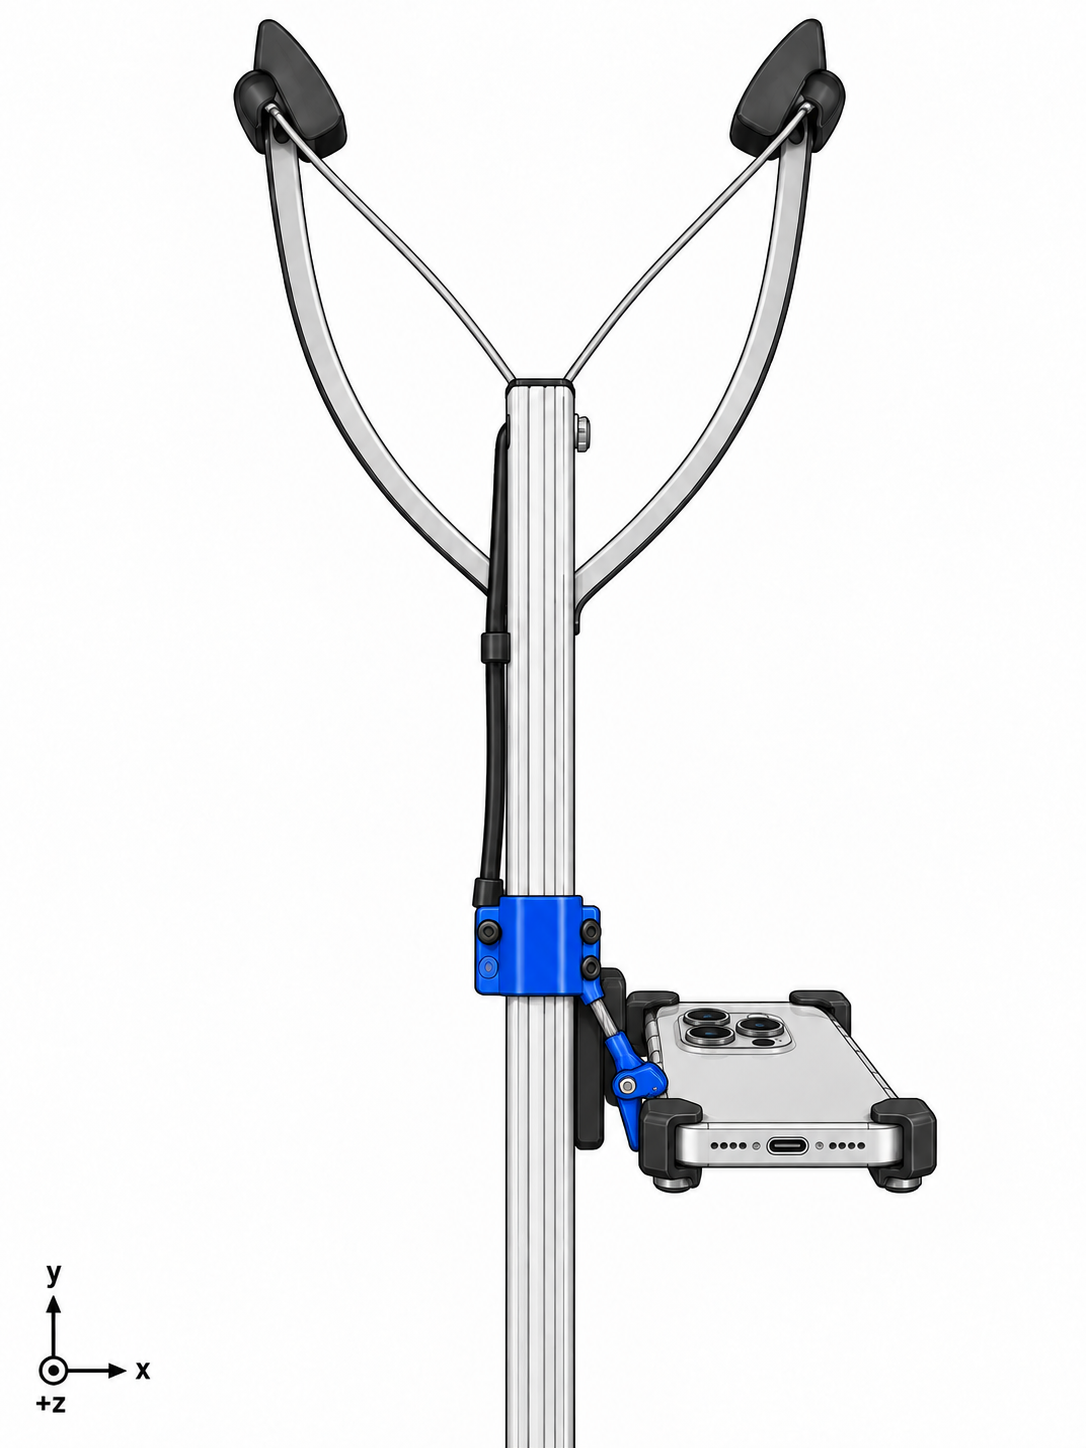
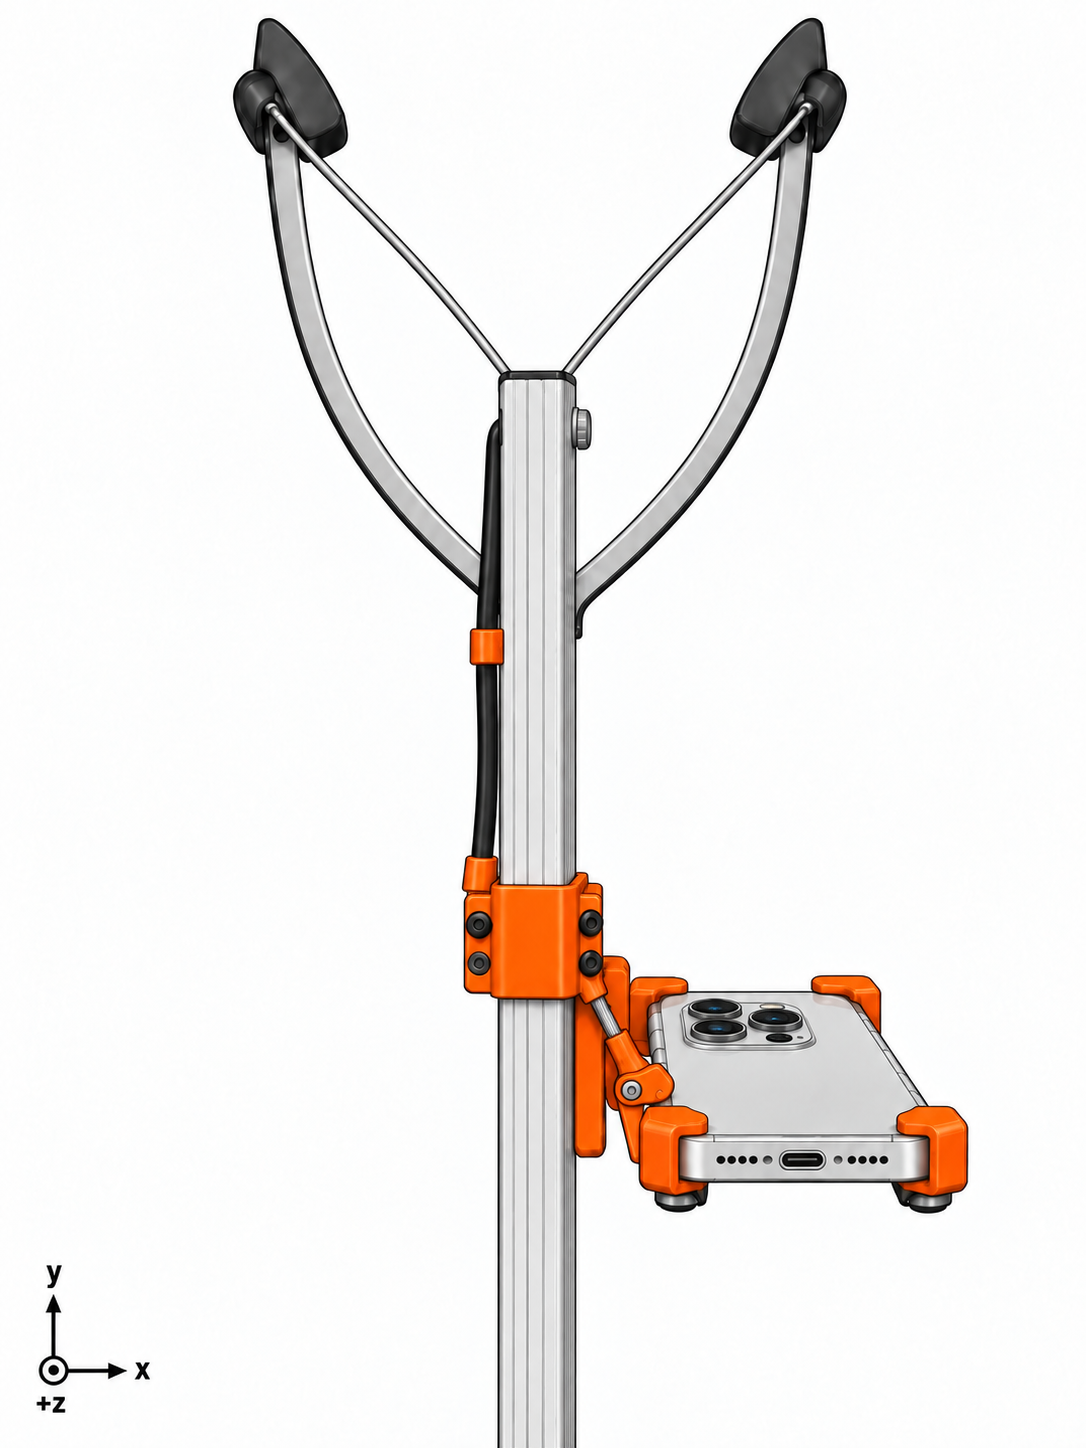
Color printed retrofit parts and square grabber neck

diff --git a/AGENTS.md b/AGENTS.md
@@ -32,6 +32,8 @@ Use the photo in `cad/reference/reacher-grabber.png` as the specific grabber geo
 
 For concept drawing pairs, positive y points up along the grabber shaft. In a views, positive x points right and positive z comes out of the page toward the viewer. In b views, the camera and axis key rotate 90 degrees about y: positive z points left and positive x comes out of the page. Keep each sheet to one view, with a small x/y/z axis glyph and a white background. These are concept illustrations, not proof of fit or working force transmission.
 
+Use the reference grabber's square-cross-section silver neck, drawn as a rectangular prism with flat faces and sharp edges. Printed clamps must fit that square profile. The only blue stock parts are the shaft's center brace and the handle; color every added 3D-printed retrofit component orange. Keep the original metal silver and the stock claw feet and squeeze trigger black.
+
 Each image in `cad/renders/` has an adjacent `.spec.json` file. Treat these sidecars as the record of user-provided positioning and component requirements when revising or replacing a drawing. Update the relevant sidecar whenever the user adds a constraint. In assembly and phone-mount a views, place the phone to the positive-x side and into negative z so its near thin long edge rests against the neck support while its short charging-port edge remains visible. Keep the earlier centered phone placement in 1b and 2b; the a-view translation was requested only for 1a and 2a. The b views turn 90° around the shaft and show the phone's long edge. In the rotated complete and handle views, the blue upper handle head is visible while the black squeeze trigger is occluded.
 
 Keep the public README focused on the project's purpose and aspirations. Put setup instructions and implementation details in `docs/` or the relevant component directory.

diff --git a/cad/renders/README.md b/cad/renders/README.md
@@ -2,6 +2,8 @@
 
 These six views are based on the [specific reacher-grabber photo](../reference/reacher-grabber.png). In every drawing the long shaft is parallel to positive y. In the **a** views, positive x points right and positive z comes out of the page toward the viewer. In the **b** views, the axis key rotates with the intended 90° viewpoint change about y: positive z points left and positive x comes out of the page. The object is not laid on its side. The latest phone translation applies only to 1a and 2a; 1b and 2b retain their earlier centered placement, so these sketches are not yet geometrically consistent CAD projections.
 
+The stock neck is a silver rectangular prism with a square cross-section, not a round tube. The stock center brace and handle are blue; added 3D-printed clamps, guides, harness pieces, and trigger attachments are orange. Printed shaft clamps are shaped to grip the square neck. Original claw feet and squeeze trigger remain black.
+
 | View | Focus |
 | --- | --- |
 | [1a — complete assembly, front](01a-complete-front.png) | One full-length view showing the neck-mounted phone, external bicycle brake cable, and trigger connection. |
